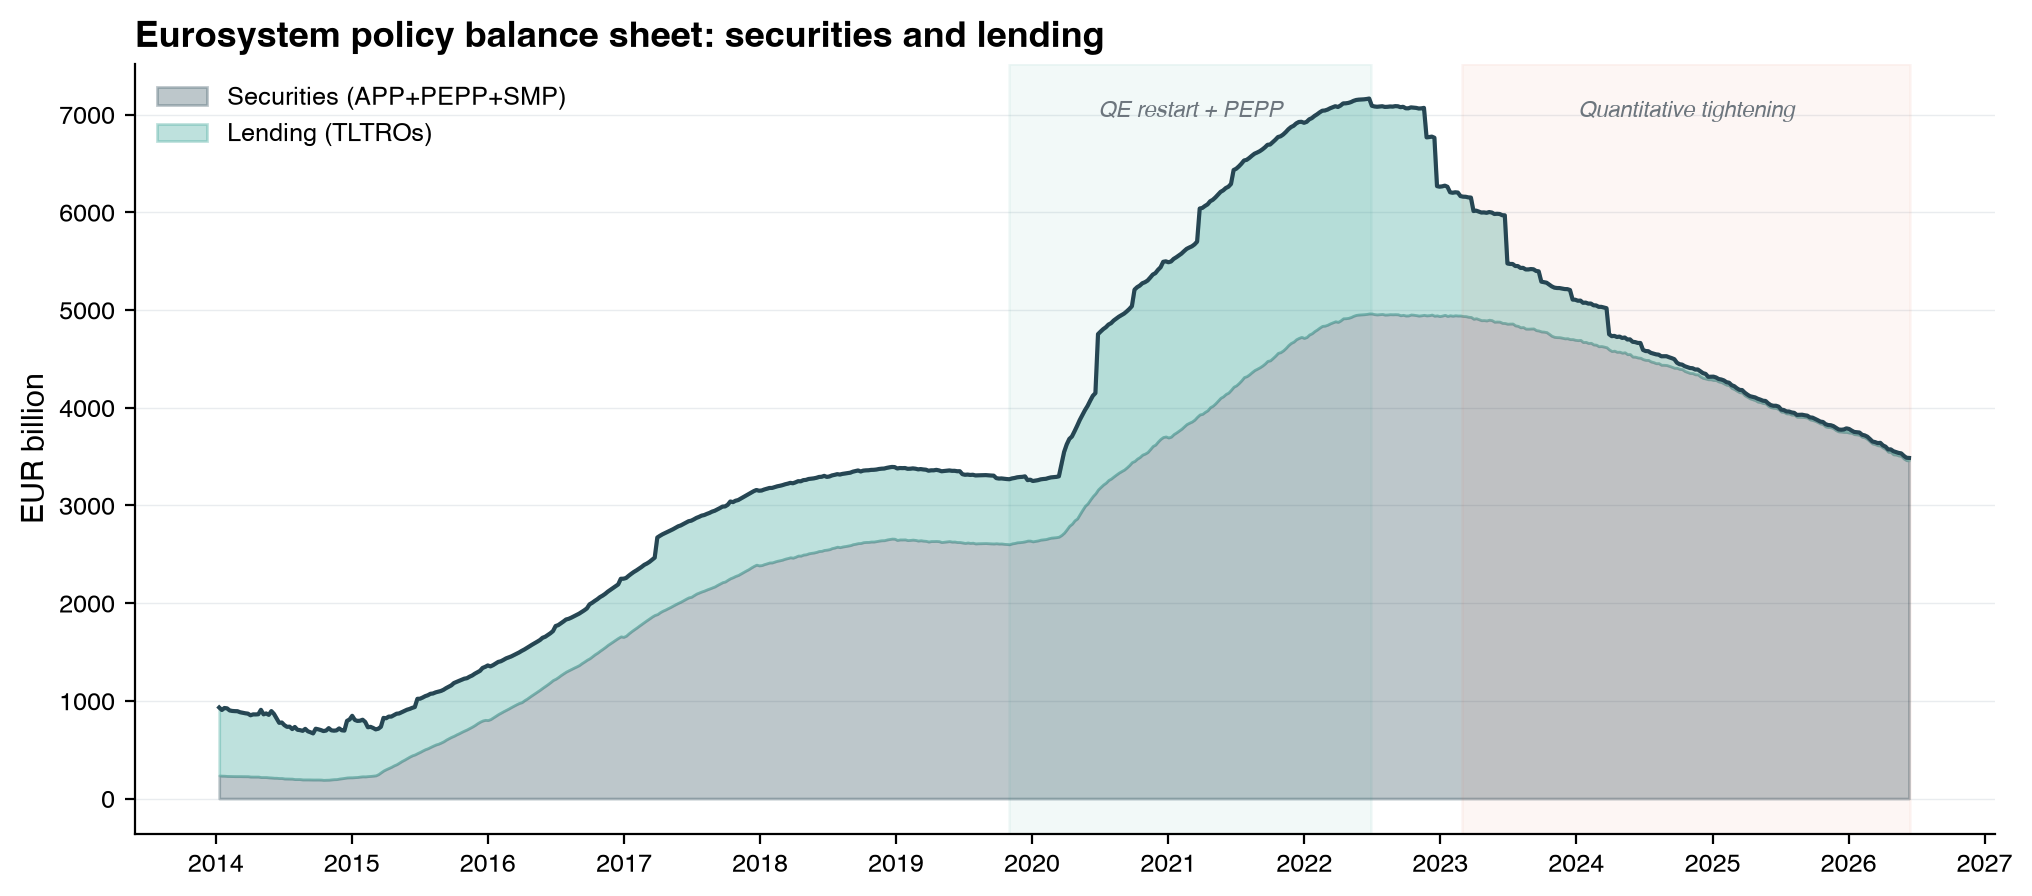
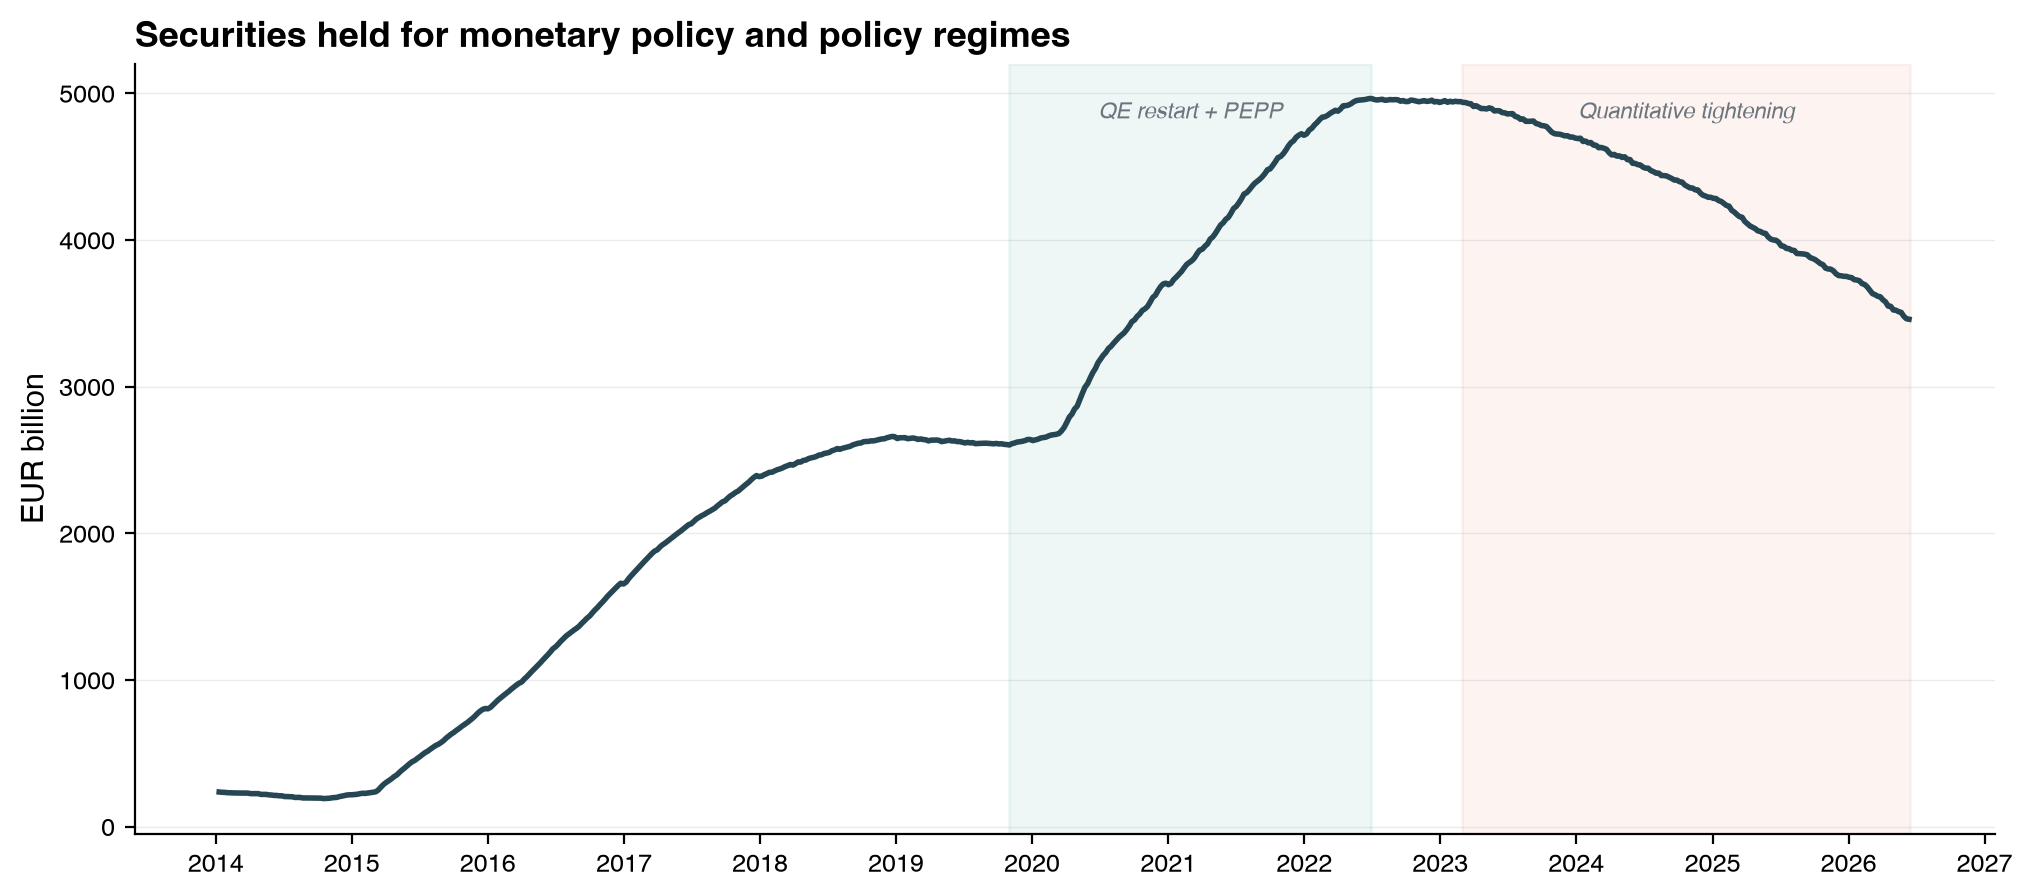
Remove lending (TLTROs) from figures, show securities only

diff --git a/visualize.py b/visualize.py
@@ -118,17 +118,13 @@ def plot_main_comparison(llm_df, sma_df, ecb_df, policy_bs_df, output_dir):
     llm["date"] = pd.to_datetime(llm["period"] + "-15")
     llm_valid = llm.dropna(subset=["f_statistic"])
 
-    # Top panel: policy balance sheet (securities + lending) + SMA
+    # Top panel: securities held for monetary policy + SMA
     if not policy_bs_df.empty:
         pol = policy_bs_df.copy()
         pol["observation_date"] = pd.to_datetime(pol["observation_date"])
-        ax1.plot(pol["observation_date"], pol["total_policy_eur"] / 1e3,
+        ax1.plot(pol["observation_date"], pol["securities_eur"] / 1e3,
                  color=COLORS["ecb_assets"], linewidth=2,
-                 label="Securities + lending (policy BS)")
-        ax1.fill_between(pol["observation_date"],
-                         pol["securities_eur"] / 1e3,
-                         pol["total_policy_eur"] / 1e3,
-                         color=COLORS["increase"], alpha=0.15, label="Lending (TLTROs)")
+                 label="Securities held for monetary policy")
 
     if not sma_df.empty:
         sma = sma_df.copy()
@@ -142,7 +138,7 @@ def plot_main_comparison(llm_df, sma_df, ecb_df, policy_bs_df, output_dir):
     ax1.set_ylabel("EUR billion")
     _add_light_grid(ax1)
     ax1.legend(loc="upper left", frameon=False, fontsize=9)
-    ax1.set_title("Eurosystem policy balance sheet and survey expectations", loc="left")
+    ax1.set_title("Eurosystem securities held for monetary policy and survey expectations", loc="left")
 
     # Bottom panel: LLM F_t
     ax2.bar(llm_valid["date"], llm_valid["f_statistic"],
@@ -335,7 +331,7 @@ def plot_confidence_distribution(classification_detail, output_dir):
 
 
 def plot_ecb_bs_with_regimes(policy_bs_df, output_dir):
-    """Figure 6: Eurosystem policy balance sheet with decomposition and regimes."""
+    """Figure 6: Securities held for monetary policy with regime annotations."""
     if policy_bs_df.empty:
         return
 
@@ -344,15 +340,8 @@ def plot_ecb_bs_with_regimes(policy_bs_df, output_dir):
 
     fig, ax = plt.subplots(figsize=(12, 5))
 
-    ax.fill_between(pol["observation_date"],
-                    0, pol["securities_eur"] / 1e3,
-                    color=COLORS["ecb_assets"], alpha=0.3, label="Securities (APP+PEPP+SMP)")
-    ax.fill_between(pol["observation_date"],
-                    pol["securities_eur"] / 1e3,
-                    pol["total_policy_eur"] / 1e3,
-                    color=COLORS["increase"], alpha=0.3, label="Lending (TLTROs)")
-    ax.plot(pol["observation_date"], pol["total_policy_eur"] / 1e3,
-            color=COLORS["ecb_assets"], linewidth=1.5)
+    ax.plot(pol["observation_date"], pol["securities_eur"] / 1e3,
+            color=COLORS["ecb_assets"], linewidth=2)
 
     regimes = [
         ("2019-11-01", "2022-06-30", "QE restart + PEPP", COLORS["increase"]),
@@ -360,16 +349,15 @@ def plot_ecb_bs_with_regimes(policy_bs_df, output_dir):
     ]
     for start, end, label, color in regimes:
         s, e = pd.Timestamp(start), pd.Timestamp(end)
-        ax.axvspan(s, e, alpha=0.06, color=color)
+        ax.axvspan(s, e, alpha=0.08, color=color)
         mid = s + (e - s) / 2
         y_pos = ax.get_ylim()[1] * 0.95
         ax.text(mid, y_pos, label, ha="center", va="top",
                 fontsize=8, color=COLORS["annotation"], style="italic")
 
     ax.set_ylabel("EUR billion")
-    ax.set_title("Eurosystem policy balance sheet: securities and lending", loc="left")
+    ax.set_title("Securities held for monetary policy and policy regimes", loc="left")
     _add_light_grid(ax)
-    ax.legend(loc="upper left", frameon=False, fontsize=9)
 
     ax.xaxis.set_major_formatter(mdates.DateFormatter("%Y"))
     ax.xaxis.set_major_locator(mdates.YearLocator())